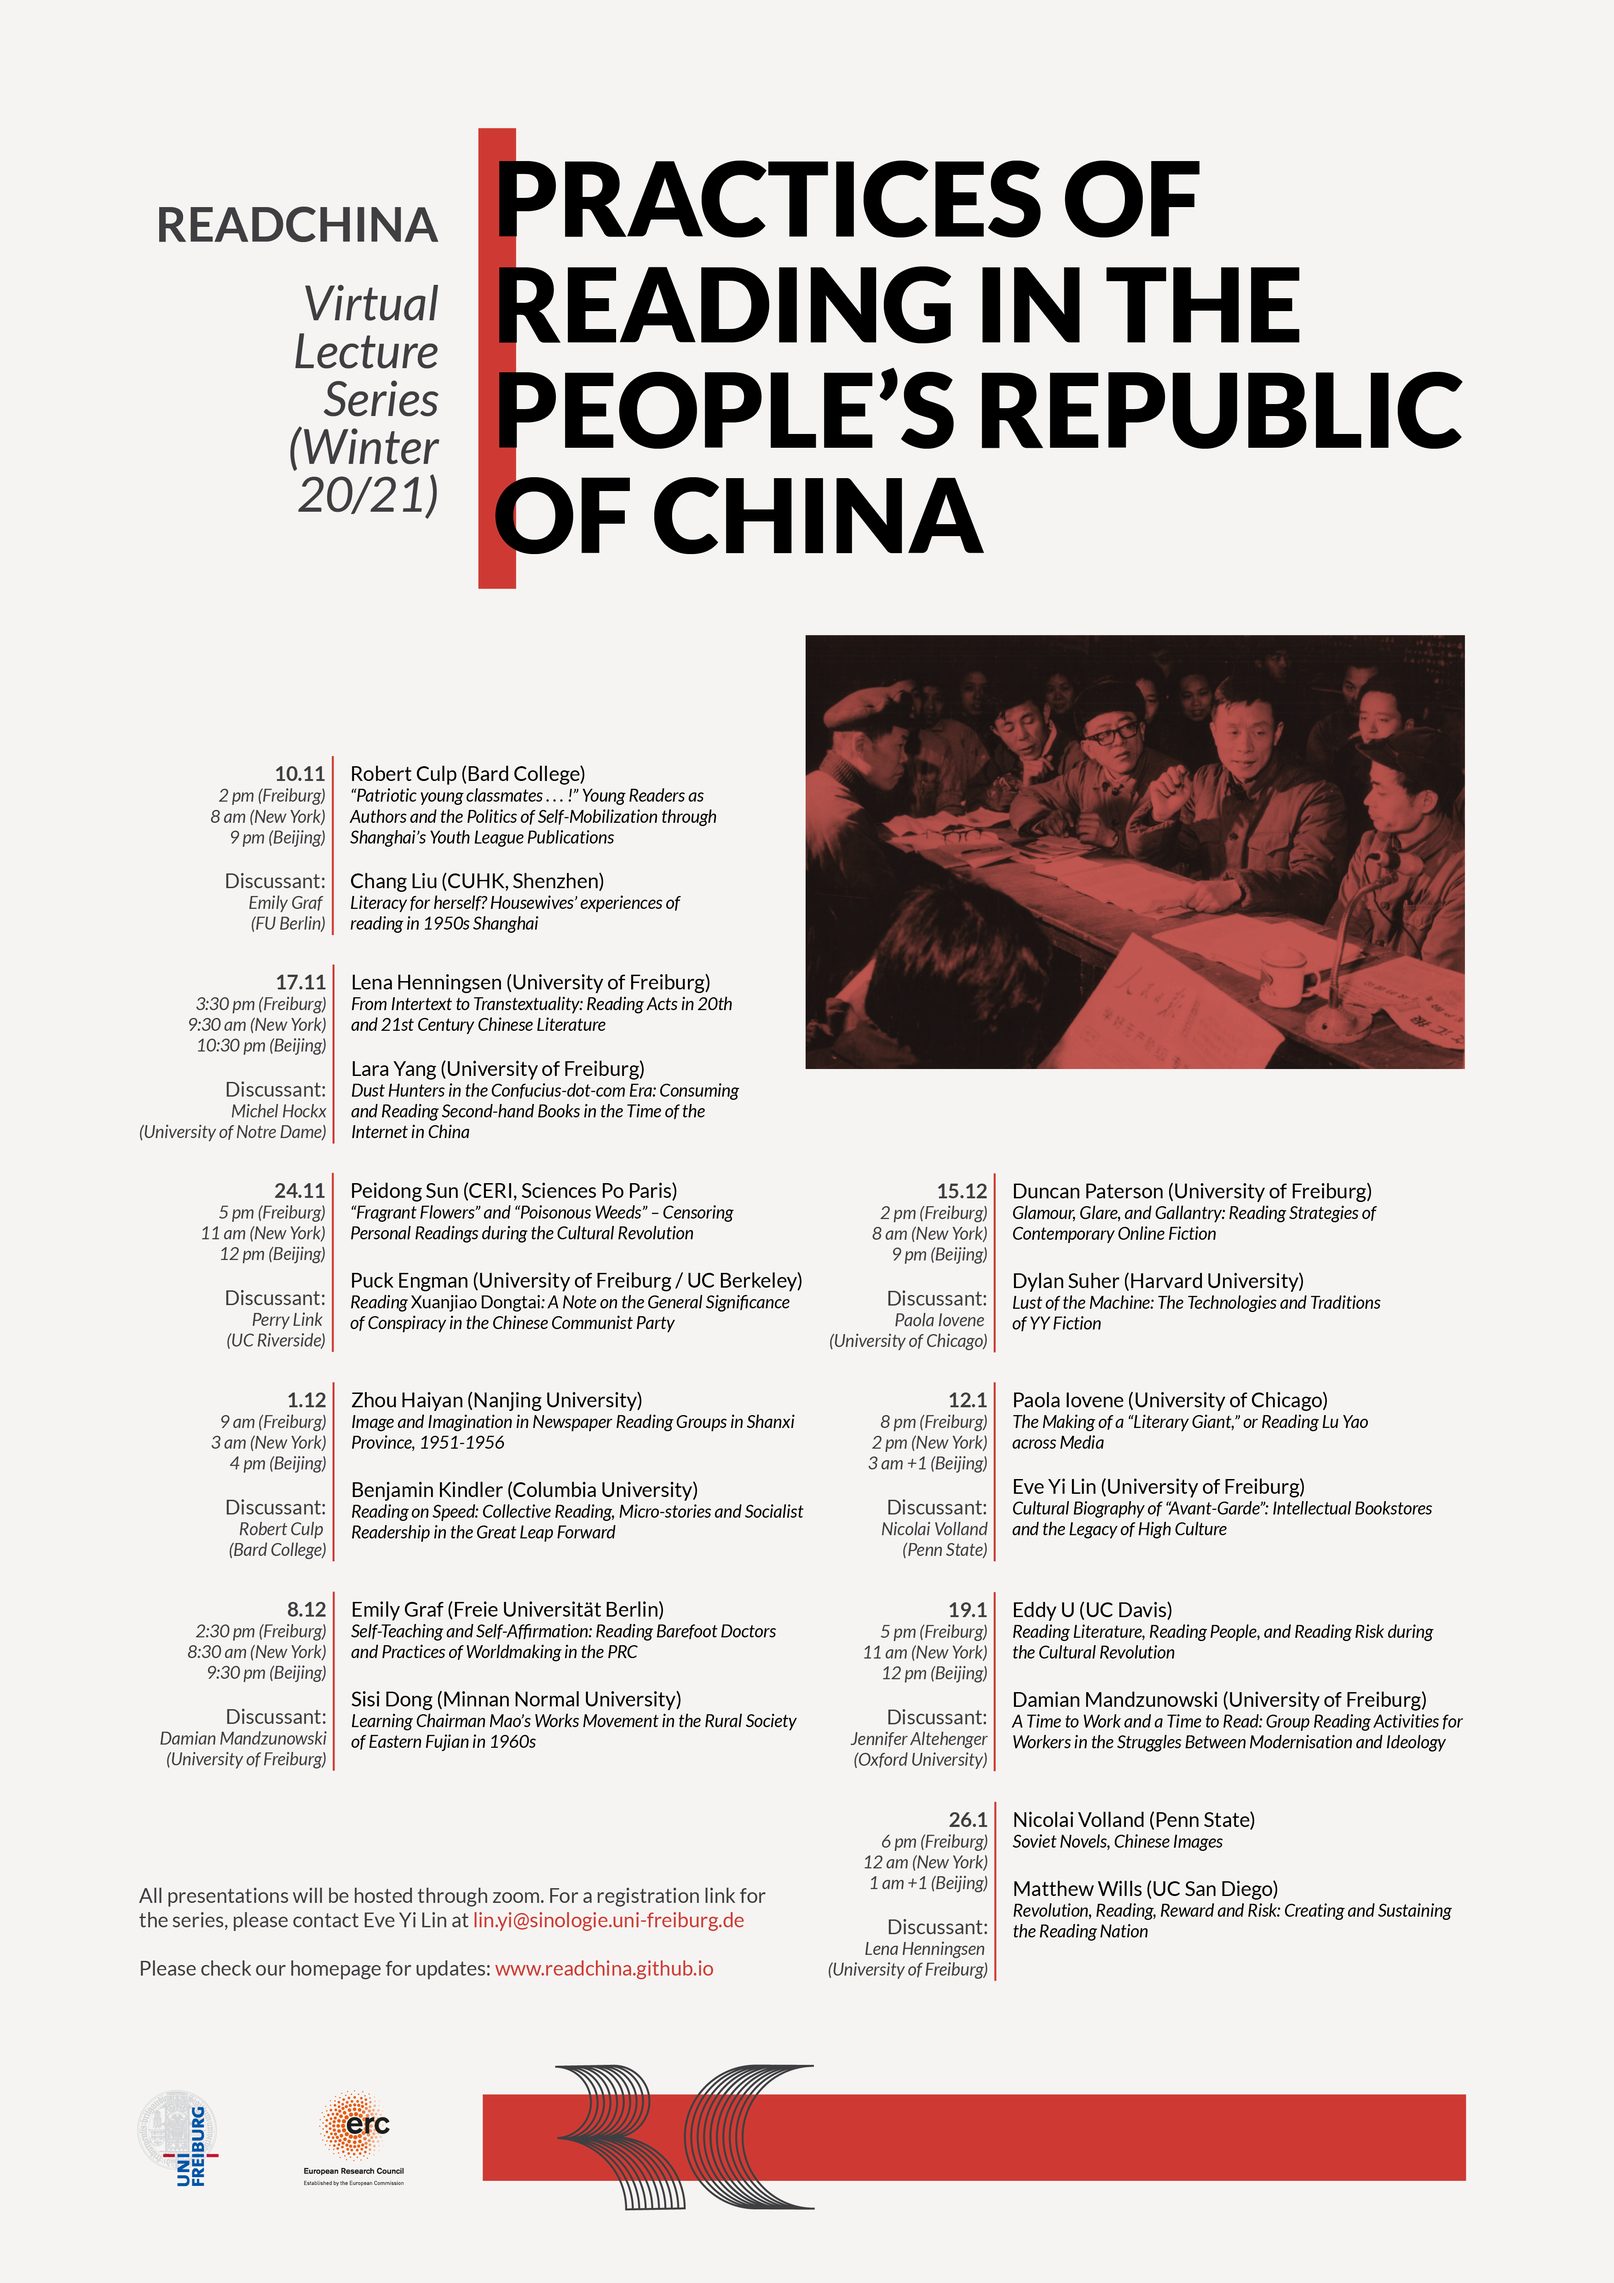
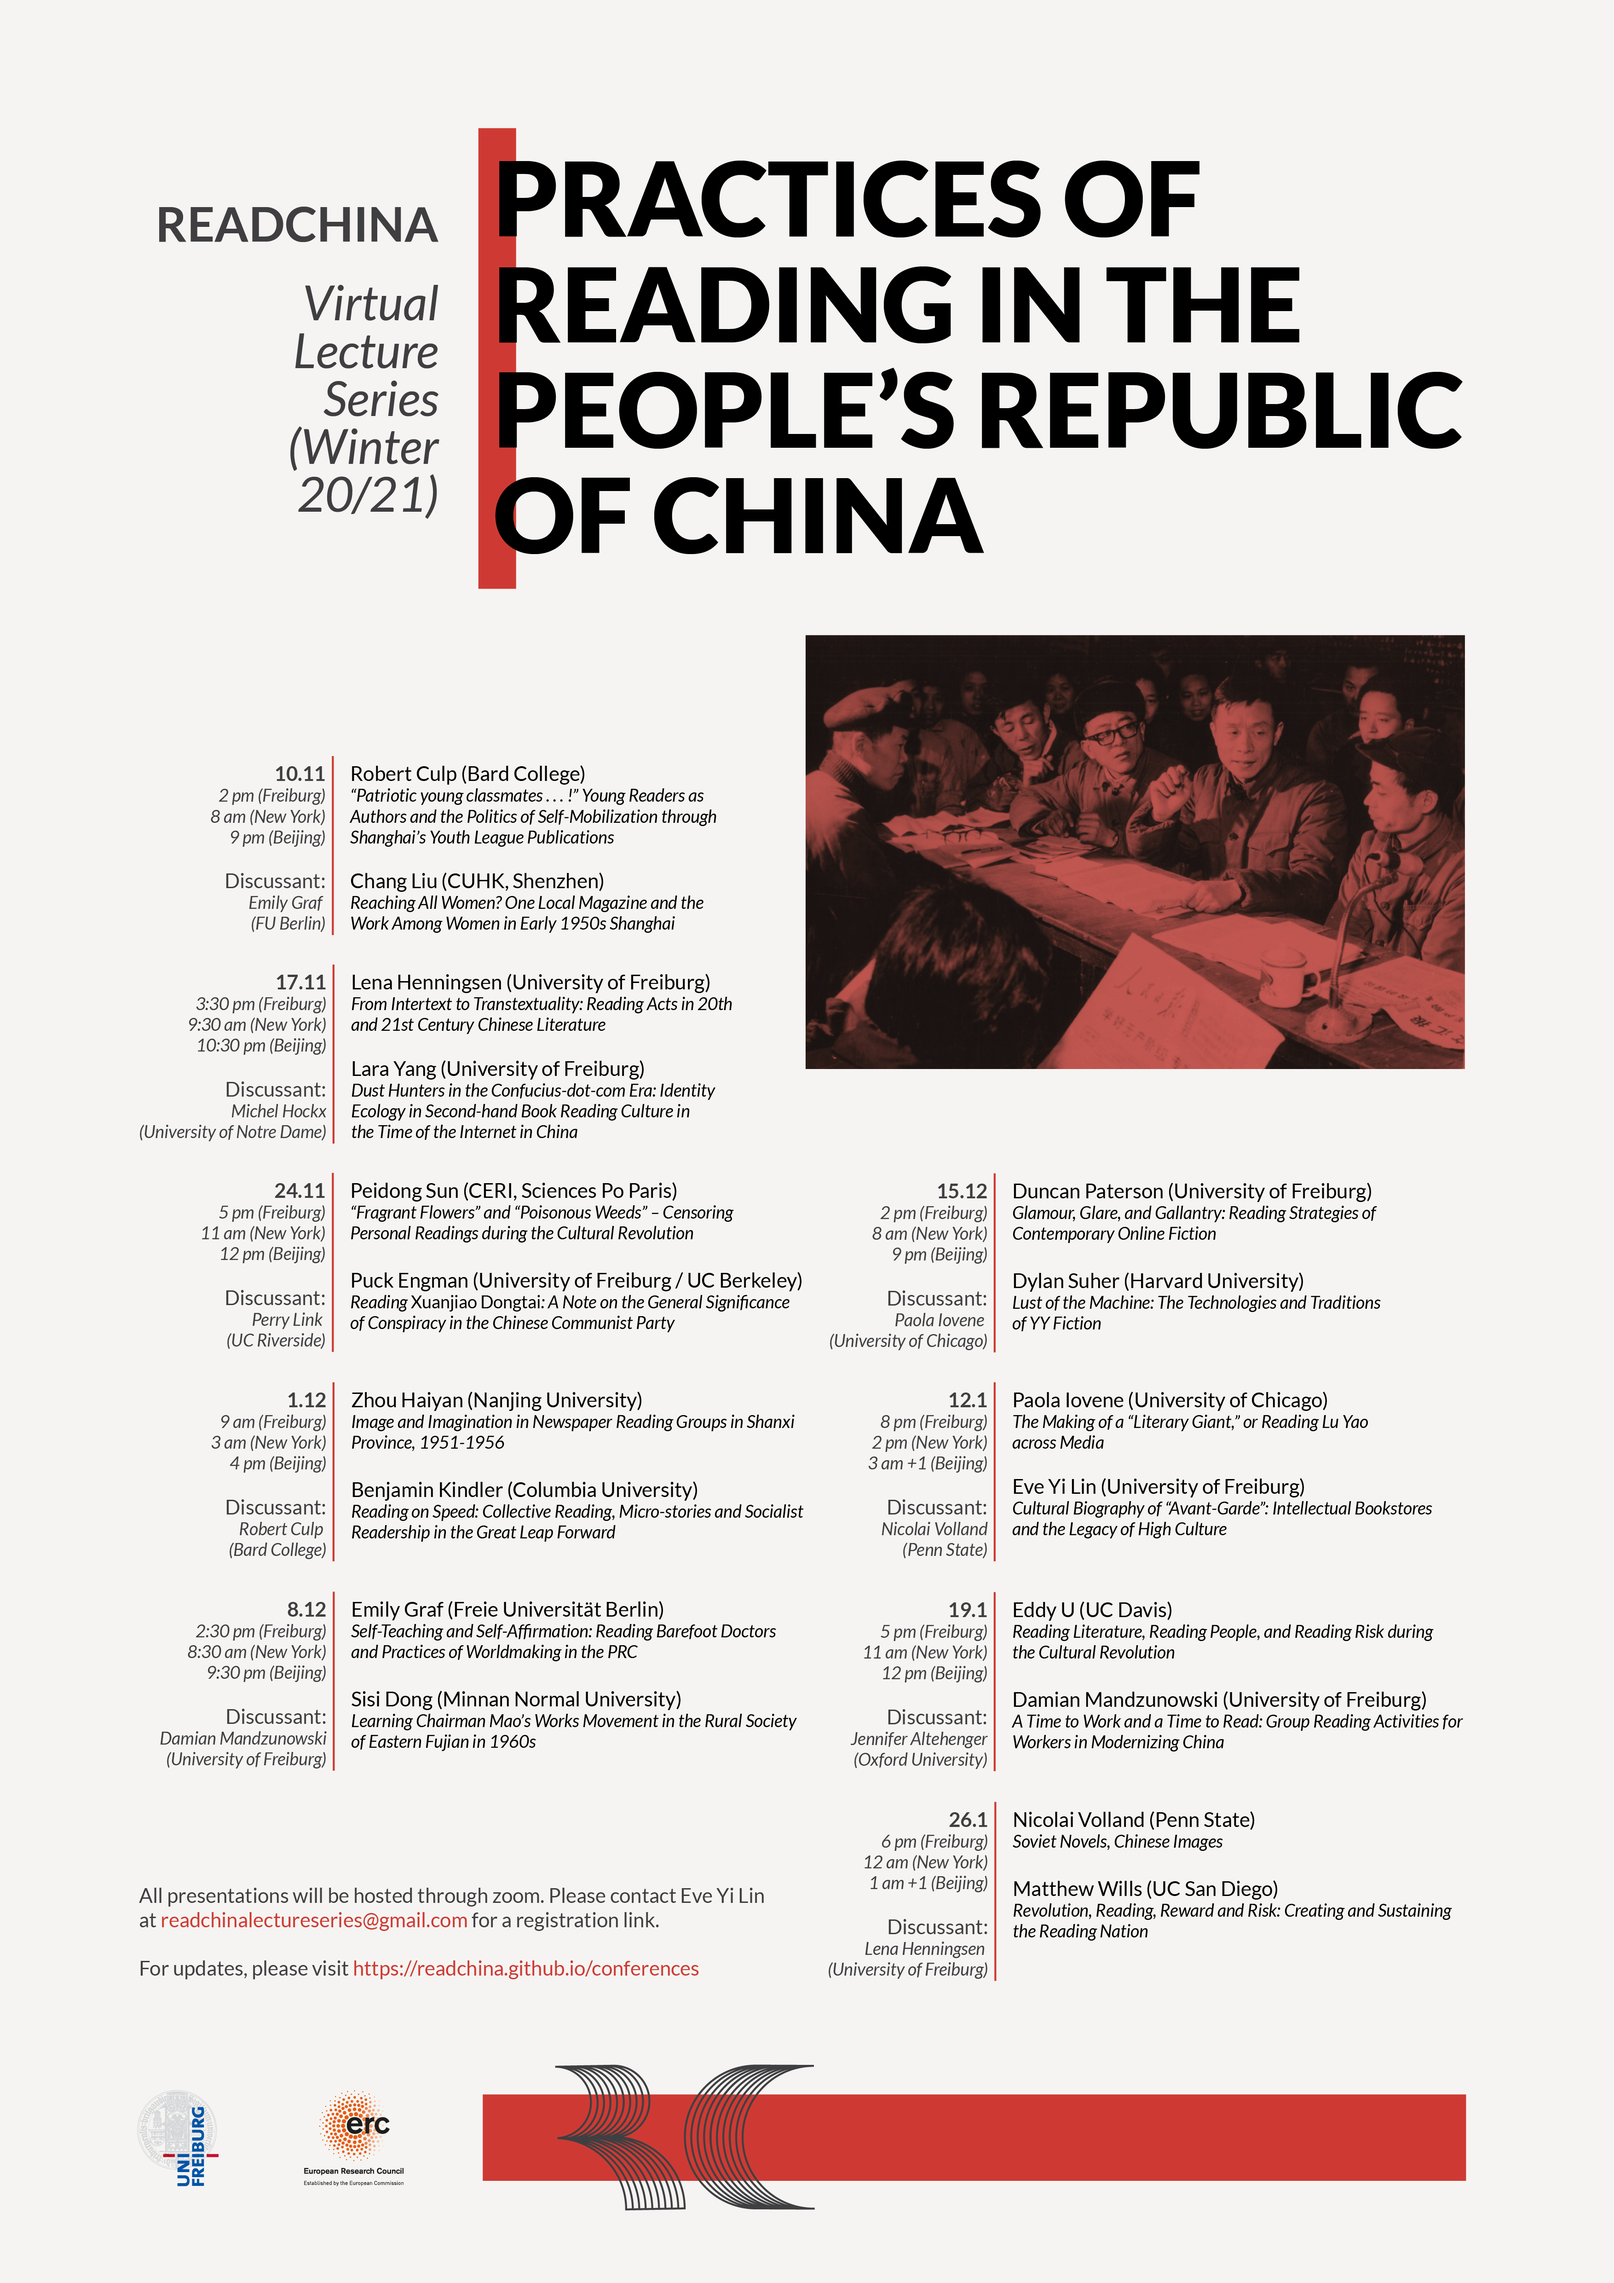
added the new version of the conf poster

diff --git a/conferences.md b/conferences.md
@@ -31,7 +31,7 @@ show_tile: true
 	<li>How do different media, different materiality of reading materials impact on reading practices and on the interpretation thereof?</li>
 	<br>
 	<div class="box">
-	<b>Registration:</b> All presentations will be hosted through zoom. For a link for the series, please contact us via the <a href="https://readchina.github.io/conferences.html#contact">'Contact'</a> form at the bottom of the page, or write directly to Eve Yi Lin at <a href="mailto:lin.yi@sinologie.uni-freiburg.de">lin.yi@sinologie.uni-freiburg.de</a>.
+	<b>Registration:</b> All presentations will be hosted through zoom. For a link for the series, please contact us via the <a href="https://readchina.github.io/conferences.html#contact">'Contact'</a> form at the bottom of the page, or write directly to Eve Yi Lin at <a href="mailto:readchinalectureseries@gmail.com">readchinalectureseries@gmail.com</a>.
 </div>
 
 <h3>Lecture Series Schedule:</h3>
